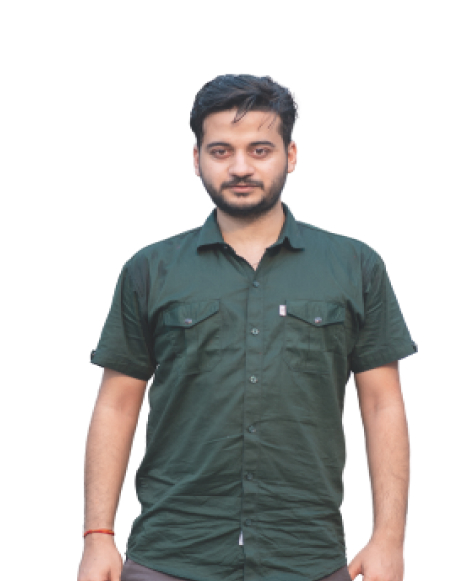
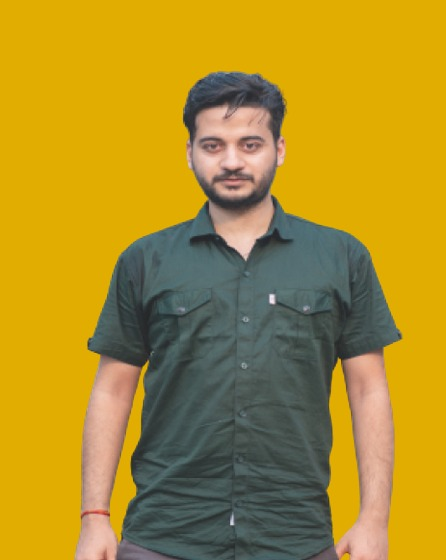
design complete
Second commit after designed according to figma completed

diff --git a/Planding/src/app/features/about/about.component.html b/Planding/src/app/features/about/about.component.html
@@ -1,17 +1,52 @@
-<p class="lead">
-    About     
-</p>
-<p>
-    As an energetic and passionate MCA student,
-    I have learned multiple programming languages 
-    and problem-solving skills, which I have applied 
-    in various projects to earn different certifications. 
-    Being a self-taught programmer, I have the ability to 
-    learn new things and keep myself updated with the latest 
-    trends in the industry. I possess valuable soft skills 
-    like discipline and time management, which help me excel 
-    in my projects. I am dedicated and committed to becoming 
-    a dependable and valuable team member.
-</p>
+<!DOCTYPE html>
+<html>
+<head>
+  <meta name="viewport" content="width=device-width, initial-scale=1.0, minimum-scale=1.0, maximum-scale=1.0">
+	<title>About</title>
+</head>
 
-<img />
+<div class="all">
+    <p class="heading">
+        About:     
+    </p>
+    <div class="about">
+        <ul class="ul1">
+            <li class="li1">
+                As an energetic and passionate MCA student,
+                I have learned multiple programming languages 
+                and problem-solving skills, which I have applied 
+                in various projects to earn different certifications. 
+            </li>
+            <li class="li1">
+                Being a self-taught programmer, I have the ability to 
+                learn new things and keep myself updated with the latest 
+                trends in the industry. 
+            </li>
+            <li class="li1">
+                I possess valuable soft skills 
+                like discipline, adaptability and time management, which help me excel 
+                in my projects. I am dedicated and committed to becoming 
+                a dependable and valuable team member.
+            </li>
+        </ul>
+        <div class="rect">
+            <p class="heading2">Certifications:</p>
+            <ul class="ul2">
+                <li class="li2">
+                    Responsive Web design: FreeCodeCamp
+                </li>
+                <li class="li2">
+                    Data Structures and algorithm using Javascript:
+                    FreeCodeCamp
+                </li>
+                <li class="li2">
+                    cs50x: edX
+                </li>
+                <li class="li2">
+                    The Modern Angular Bootcamp: 
+                    Stephen Gridle(Udemy)                    
+                </li>
+            </ul>
+        </div>
+    </div>
+</div>

diff --git a/Planding/src/app/features/contact/contact.component.html b/Planding/src/app/features/contact/contact.component.html
@@ -1,10 +1,51 @@
-<p class="lead">
-    Contacts:  
-</p>
-<p>
-    If you have any inquiries, don't hesitate to 
-    contact me. You can reach me through my GitHub 
-    account, which is https://github.com/krsna23. 
-    You can also email me at krishna.adhikari@example.com. 
-    I look forward to hearing from you!
-</p>
+<!DOCTYPE html>
+<html>
+<head>
+  <meta name="viewport" content="width=device-width, initial-scale=1.0, minimum-scale=1.0, maximum-scale=1.0">
+	<title>About</title>
+</head>
+
+<div class="all">
+    <p class="heading">
+        Contact:     
+    </p>
+    <p class="text">
+        If you have any inquiries, don't hesitate to 
+        contact me. You can reach me through my GitHub 
+        account, which is https://github.com/krsna23. 
+        You can also email me at krishna.adhikari@example.com. 
+        I look forward to hearing from you!
+    </p>
+    <div class="rect">
+        <div class="indiv">
+            <img alt="location" class="icon" src="../assets/images/location.png" />
+            <p class="info">
+                Jayanagar, Bangalore
+            </p>
+        </div>
+        <div class="indiv">
+            <img alt="gmail" class="icon" src="../assets/images/gmail.png" />
+            <p class="info">
+                adh.krishna23@gmail.com
+            </p><br>
+        </div>
+        <div class="indiv">
+            <img alt="whatsapp" class="icon" src="../assets/images/whatsapp.png" />
+            <p class="info">
+                +91 91485 58301
+            </p><br>
+        </div>
+        <div class="indiv">
+            <img alt="linkedin" class="icon" src="../assets/images/linkedin.png" />
+            <p class="info">
+                krishna-adhikari-4b000924a/
+            </p><br>
+        </div>
+        <div class="indiv">
+            <img alt="github" class="icon" src="../assets/images/github.png" />
+            <p class="info">
+                https://github.com/krsna23
+            </p><br>
+        </div>
+    </div>
+</div>

diff --git a/Planding/src/app/Home/content/content.component.css b/Planding/src/app/Home/content/content.component.css
@@ -8,6 +8,7 @@
 .line{
     display: flex;
 }
+
 .hello{
     font-size: 4.5vw;
 }
@@ -19,7 +20,7 @@
 
 .name{
     font-size:6vw;
-    margin-left: 2vw;
+    margin-left: 3px;
     color: #D396BE;
 }
 
@@ -37,30 +38,26 @@
   text-align: center;
   text-decoration: none;
   display: inline-block;
-  font-size: 4vw;
+  font-size: 3vw;
   font-weight: bold;
-  margin-left: 10vw;
-  margin-bottom: 10vh;
+  margin-top: 16vh;
+  margin-bottom: 3vh;
 }
 
 .mid {
     display: flex;
   }
 
-.rect{
-    background-color: #E1AD01;
-    width: 26vw;
-    height: 30vw;
-    margin-left: 21vw;
-}
-
 .photo{
-    height: 30vw;
-    width: 26vw;
+    height: 35vw;
+    width: 28vw;
+    margin-left: 12vw;
+    opacity: 60%;
+    border-radius: 8vw;
 }
 
 
 /*For making mobile responsive:*/
 @media screen and (max-width: 767px) {
-    
+
 }

diff --git a/Planding/src/app/features/about/about.component.css b/Planding/src/app/features/about/about.component.css
@@ -1,0 +1,55 @@
+/* CSS */
+:root { font-family: 'Inter', sans-serif; }
+@supports (font-variation-settings: normal) {
+  :root { font-family: 'Inter var', sans-serif; }
+}
+
+.all{
+    color: #DDEFDB;
+}
+
+.heading{
+    font-size: 4vw;
+    margin: 3vw;
+    font-family: cursive;
+    margin-left: 8vw;
+}
+
+.ul1{
+    font-size: 1.5vw;
+    width: 48vw;
+    height: 31vw;
+    margin-left: 10vw;
+}
+
+.li1{
+    margin-bottom: 2vw;
+}
+
+.rect{
+    background-color: #E1AD01;
+    height: 26vw;
+    width: 36vw;
+    color: #0D5325;
+    font-family:'Inter';
+    margin-left: 7vw;
+}
+
+.about{
+    display: flex;
+}
+
+.heading2{
+    font-size: 2.5vw;
+    margin: 1vw;
+    text-decoration-line: underline;
+    text-decoration-color: #0D5325;
+}
+
+.ul2{
+    font-size: 1.8vw;
+}
+
+.li2{
+    margin-bottom: .3vw;
+}

diff --git a/Planding/src/app/features/contact/contact.component.css b/Planding/src/app/features/contact/contact.component.css
@@ -1,0 +1,42 @@
+.heading{
+    font-size: 4vw;
+    margin: 3vw;
+    font-family: cursive;
+    margin-left: 8vw;
+}
+
+.text{
+    color: #DDEFDB;
+    font-size: 1.7vw;
+    margin-left: 15vw;
+    width: 78vw;
+    height: 7vw;
+}
+
+.rect{
+    background-color: #E1AD01;
+    width: 52vw;
+    height: 21vw;
+    margin-left: 21vw;
+    margin-top: 12vh;
+    font-weight: 640;
+    padding-left: 8vw;
+    padding-top: 2vw;
+    font-size: 1.8vw;
+    border-radius: 3vw 3vw 0 0;
+}
+
+.indiv{
+    display: flex;
+    height: 3.7vw;
+}
+
+.icon{
+    height: 2.4vw;
+    width: 2.5vw;
+}
+
+.info{
+    margin-left: 1.5vw;
+    font-family: cursive;
+}

diff --git a/Planding/src/app/Home/content/content.component.html b/Planding/src/app/Home/content/content.component.html
@@ -13,11 +13,12 @@
             <p class="para">
                 My skills are in Front end development (HTML, CSS, JS, Angular, Figma).
             </p>
+            <button type="submit" class="btn button">Let's Collaborate</button>
         </div>
         <div class="rect">
-            <!--<img alt="Photo" class="photo" src="../assets/images/Photo.jpg" />
-            --></div>
+            <img alt="Photo" class="photo" src="../assets/images/Photo.jpg" />
+        </div>
     </div>
-    <button type="submit" class="btn button">Let's Collaborate</button>
+    
 
 </div>

diff --git a/Planding/src/app/Home/content/content.component.ts b/Planding/src/app/Home/content/content.component.ts
@@ -5,6 +5,5 @@ import { Component } from '@angular/core';
   templateUrl: './content.component.html',
   styleUrls: ['./content.component.css']
 })
-export class ContentComponent {
-  
-}
+
+export class ContentComponent {}
